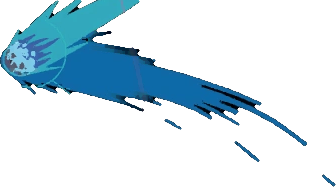
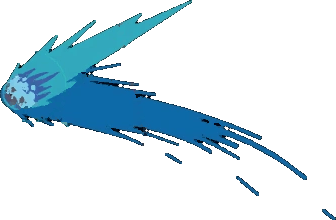
No flicker on zombie/peashooter swaps, spinning planets, upright orbits, clean Interloper, PvZ2 sunflower, spread stickers, dark-only theme

Changed region(s): [[0.0, 0.0, 0.9226, 0.8289], [0.6845, 0.7487, 0.7738, 0.9091], [0.9524, 0.9358, 1.0, 1.0]]

diff --git a/js/decor.js b/js/decor.js
@@ -26,38 +26,39 @@ var Decor = (function () {
 
   /* Astros com lua ou satélite girando em volta.
    *   sat.h = altura do satélite, radius = raio da órbita (px), dur = segundos por volta,
-   *   tilt = inclinação da órbita (graus), flat = achatamento (1 = círculo),
-   *   face = giro da arte para a mesma face ficar sempre virada para o planeta, como no jogo. */
+   *   tilt = inclinação da órbita (graus), flat = achatamento (1 = círculo).
+   * O satélite fica sempre de pé e passa por trás do astro na metade de cima da órbita.
+   * Os astros giram devagar no próprio eixo (CSS: .decor-item--planet > img). */
   var ORBITS = [
-    { el: '.avatar', a: 'ow_timber',  x: 80, y: -6, h: 92, r: 0, m: true,
-      sat: { a: 'ow_attlerock', h: 34, radius: 78,  dur: 14, tilt: -20, flat: 0.62, face: 0 } },
+    { el: '.avatar', a: 'ow_timber',  x: 82, y: -8, h: 92,  r: 0, m: true,
+      sat: { a: 'ow_attlerock', h: 30, radius: 74,  dur: 16, tilt: -12, flat: 0.45 } },
     { s: 'top',  a: 'ow_giants',  x: 56, y: 6,  h: 110, r: 0,
-      sat: { a: 'ow_cannon',    h: 40, radius: 96,  dur: 18, tilt: -16, flat: 0.62, face: 200 } },
+      sat: { a: 'ow_cannon',    h: 34, radius: 94,  dur: 20, tilt: -10, flat: 0.45 } },
     { s: 'tech', a: 'ow_brittle', x: 86, y: 12, h: 120, r: 0,
-      sat: { a: 'ow_lantern',   h: 46, radius: 100, dur: 16, tilt: 18,  flat: 0.64, face: 0 } },
+      sat: { a: 'ow_lantern',   h: 40, radius: 96,  dur: 18, tilt: 10,  flat: 0.45 } },
     { s: 'tech', a: 'ow_sun',     x: 6,  y: 40, h: 150, r: 0,
-      sat: { a: 'ow_station',   h: 30, radius: 122, dur: 24, tilt: 12,  flat: 0.66, face: 180 } }
+      sat: { a: 'ow_station',   h: 28, radius: 118, dur: 26, tilt: 8,   flat: 0.45 } }
   ];
 
   /* Adesivos "segurando" as caixas da página (borda branca de adesivo) */
   var STICKERS = [
-    { el: '.dialog',                              a: 'tr_guide',    x: 96,  y: -48, h: 84,  r: -4 },
-    { el: '.stats',                               a: 'dr_ralsei',   x: 88,  y: -58, h: 110, r: 6 },
+    { el: '.dialog',                              a: 'tr_guide',    x: 94,  y: -50, h: 84,  r: -4 },
+    { el: '.stats',                               a: 'dr_ralsei',   x: 86,  y: -60, h: 110, r: 6 },
     { el: '.hotbar-wrap',                         a: 'tr_slime',    x: 58,  y: 8,   h: 40,  r: 0 },
-    { el: '#projects-list .project:nth-child(1)', a: 'dr_kris',     x: 84,  y: -30, h: 96,  r: 0, m: true },
-    { el: '#projects-list .project:nth-child(2)', a: 'dr_lancer',   x: -10, y: 70,  h: 80,  r: -8 },
-    { el: '#projects-list .project:nth-child(3)', a: 'dr_spamton',  x: 90,  y: 60,  h: 96,  r: 6 },
-    { el: '#projects-list .project:nth-child(4)', a: 'dr_aqua',     x: 86,  y: -34, h: 104, r: 0, m: true },
+    { el: '#projects-list .project:nth-child(1)', a: 'dr_kris',     x: 80,  y: -32, h: 96,  r: 0, m: true },
+    { el: '#projects-list .project:nth-child(2)', a: 'dr_lancer',   x: 50,  y: -28, h: 76,  r: 6 },
+    { el: '#projects-list .project:nth-child(3)', a: 'dr_spamton',  x: -16, y: 52,  h: 90,  r: -6 },
+    { el: '#projects-list .project:nth-child(4)', a: 'dr_aqua',     x: 70,  y: -30, h: 100, r: 0, m: true },
     { el: '.pix',                                 a: 'pvz_wallnut', x: -14, y: 74,  h: 80,  r: -8 },
-    { el: '#contact-links',                       a: 'mc_diamond',  x: 96,  y: -6,  h: 40,  r: -10 },
-    { el: '#contact-links',                       a: 'mc_cake',     x: 92,  y: 92,  h: 50,  r: 6 }
+    { el: '#contact-links',                       a: 'mc_diamond',  x: 96,  y: -10, h: 40,  r: -10 },
+    { el: '.pix',                                 a: 'mc_cake',     x: 84,  y: 92,  h: 50,  r: 6 }
   ];
 
   /* Rostos de mobs do Minecraft espiando atrás das caixas */
   var FACES = [
     { el: '.stats',          a: 'mc_face_creeper',  x: -10, y: 60, h: 46, r: -12 },
     { el: '.pix',            a: 'mc_face_zombie',   x: 94,  y: -8, h: 46, r: 10, m: true },
-    { el: '#projects-list',  a: 'mc_face_skeleton', x: 98,  y: 46, h: 46, r: 10 }
+    { el: '#projects-list',  a: 'mc_face_skeleton', x: 99,  y: 82, h: 46, r: 10 }
   ];
 
   /* Viajantes: atravessam a tela, 2 ou 3 ao mesmo tempo.
@@ -123,8 +124,8 @@ var Decor = (function () {
   }
 
   /* ---------- órbitas ----------
-   * O satélite é movido por código numa elipse inclinada ao redor do centro do astro e girado para a
-   * mesma face ficar sempre voltada para o planeta. Na metade de trás da órbita ele passa atrás do astro. */
+   * O satélite é movido por código numa elipse inclinada ao redor do centro do astro.
+   * Na metade de trás da órbita ele passa atrás do astro. */
   var orbiters = [];
 
   function addOrbits() {
@@ -148,8 +149,7 @@ var Decor = (function () {
     var ex = Math.cos(ang) * o.radius * k, ey = Math.sin(ang) * o.radius * k * o.flat;
     var tilt = o.tilt * Math.PI / 180;
     var x = ex * Math.cos(tilt) - ey * Math.sin(tilt), y = ex * Math.sin(tilt) + ey * Math.cos(tilt);
-    var facing = Math.atan2(y, x) * 180 / Math.PI + o.face;       // a face "o.face" aponta para o planeta
-    b.el.style.transform = 'translate(' + (b.cx + x - b.sw / 2).toFixed(1) + 'px,' + (b.cy + y - b.sh / 2).toFixed(1) + 'px) rotate(' + facing.toFixed(1) + 'deg)';
+    b.el.style.transform = 'translate(' + (b.cx + x - b.sw / 2).toFixed(1) + 'px,' + (b.cy + y - b.sh / 2).toFixed(1) + 'px)';
     b.el.style.zIndex = Math.sin(ang) < 0 ? -1 : 1;                 // atrás do astro na metade de cima
   }
 

diff --git a/js/pvz.js b/js/pvz.js
@@ -73,8 +73,7 @@ var Lawn = (function () {
       shooter.src = DIR + 'pvz2-peashooter-idle.webp';
       shooter.style.width = shooterW + 'px';
       lawn.appendChild(shooter);
-      // pré-carrega a animação de tiro
-      new Image().src = DIR + 'pvz2-peashooter-shoot.webp';
+      preload();
     }
 
     /* Toca a animação de tiro (um <img> novo para ela começar do primeiro quadro) e solta a ervilha na hora do cuspe */
@@ -86,15 +85,33 @@ var Lawn = (function () {
       img.className = 'pvz-shooter'; img.alt = '';
       img.src = DIR + 'pvz2-peashooter-shoot.webp';
       img.style.width = shooterW + 'px';
-      shooter.replaceWith(img); shooter = img;
-      setTimeout(function () { if (running) launchPea(); }, PEA_OUT_MS);
+      var old = shooter; shooter = img;
+      swapWhenReady(old, img, function () {
+        setTimeout(function () { if (running) launchPea(); }, PEA_OUT_MS);
+      });
       setTimeout(function () {
         var idle = document.createElement('img');
         idle.className = 'pvz-shooter'; idle.alt = '';
         idle.src = DIR + 'pvz2-peashooter-idle.webp';
         idle.style.width = shooterW + 'px';
-        shooter.replaceWith(idle); shooter = idle; shooting = false;
+        var cur = shooter; shooter = idle;
+        swapWhenReady(cur, idle, function () { shooting = false; });
       }, SHOOT_MS);
+    }
+
+    /* Troca uma imagem pela outra só depois que a nova já está pronta para desenhar,
+     * para não aparecer um quadro vazio (o "pisca") no meio da troca. */
+    function swapWhenReady(oldImg, newImg, done) {
+      var go = function () { if (oldImg.isConnected) oldImg.replaceWith(newImg); if (done) done(); };
+      if (newImg.decode) newImg.decode().then(go, go); else newImg.onload = go;
+    }
+
+    /* Carrega todas as animações de uma vez no começo, para as trocas serem instantâneas */
+    function preload() {
+      Object.keys(G).forEach(function (n) { new Image().src = DIR + G[n].f; });
+      new Image().src = DIR + HEAD.f;
+      new Image().src = DIR + 'pvz2-peashooter-shoot.webp';
+      new Image().src = DIR + 'pvz2-peashooter-idle.webp';
     }
 
     /* Mostra a animação `name` no zumbi: um <img> novo, para o GIF recomeçar do primeiro quadro */
@@ -106,8 +123,9 @@ var Lawn = (function () {
       // pés no chão e frente do desenho sobre a posição do zumbi
       img.style.marginBottom = '-' + Math.round((a.h - a.box[3]) * s) + 'px';
       img.style.marginLeft = '-' + Math.round(a.box[0] * s) + 'px';
-      z.box.replaceChildren(img);
+      var old = z.img;
       z.img = img; z.anim = name;
+      if (old && old.isConnected) swapWhenReady(old, img); else z.box.replaceChildren(img);
     }
 
     function stageFor(z) {

diff --git a/index.html b/index.html
@@ -1,5 +1,5 @@
 <!DOCTYPE html>
-<html lang="pt-BR">
+<html lang="pt-BR" data-theme="dark">
 <head>
   <meta charset="UTF-8">
   <meta name="viewport" content="width=device-width, initial-scale=1">
@@ -13,17 +13,6 @@
   <link rel="preconnect" href="https://fonts.gstatic.com" crossorigin>
   <link href="https://fonts.googleapis.com/css2?family=Inter:wght@400;500;600&family=Pixelify+Sans:wght@400..700&family=Press+Start+2P&family=VT323&display=swap" rel="stylesheet">
   <link rel="stylesheet" href="css/style.css">
-  <!-- Aplica o tema antes da renderização para evitar "flash" -->
-  <script>
-    (function () {
-      var theme = null;
-      try { theme = localStorage.getItem('theme'); } catch (e) {}
-      if (!theme) {
-        theme = window.matchMedia && window.matchMedia('(prefers-color-scheme: dark)').matches ? 'dark' : 'light';
-      }
-      document.documentElement.setAttribute('data-theme', theme);
-    })();
-  </script>
 </head>
 <body>
   <a class="skip-link" href="#main" data-i18n="ui.skip">Ir para o conteúdo</a>
@@ -47,10 +36,6 @@
           <button type="button" class="lang__btn" data-lang="pt" aria-pressed="true">PT</button>
           <button type="button" class="lang__btn" data-lang="en" aria-pressed="false">EN</button>
         </div>
-        <button type="button" class="icon-btn" id="theme-toggle" data-i18n-attr="aria-label:ui.themeToggle" aria-label="Alternar entre dia e noite">
-          <span class="icon icon--moon" data-sprite="moon" data-scale="2"></span>
-          <span class="icon icon--sun" data-sprite="daysun" data-scale="2"></span>
-        </button>
       </div>
     </div>
   </header>
@@ -83,7 +68,7 @@
           <div class="avatar__frame">
             <img id="avatar-img" width="260" height="260" alt="Foto de Mauricio Aires" data-i18n-attr="alt:hero.photoAlt">
           </div>
-          <span class="deco deco--flower" data-sprite="sunflower" data-scale="0.8"></span>
+          <span class="deco deco--flower" data-sprite="sunflower" data-scale="0.46"></span>
         </div>
       </div>
     </section>

diff --git a/css/style.css b/css/style.css
@@ -26,7 +26,7 @@
 
   --px: 4px;                /* "espessura" do pixel das bordas */
   --header-h: 68px;
-  color-scheme: light;
+  color-scheme: dark;
 }
 
 :root[data-theme="dark"] {
@@ -187,7 +187,7 @@ h1, h2, h3, p, dl, dd { margin: 0; }
 .avatar__frame img { width: 100%; height: 100%; object-fit: cover; }
 .avatar__fallback { display: grid; place-items: center; width: 100%; height: 100%; }
 .deco { position: absolute; z-index: 3; animation: bob 2.4s steps(4) infinite; }
-.deco--flower { bottom: -.8rem; left: 0; animation: none; }
+.deco--flower { bottom: -1.2rem; left: -1.4rem; animation: none; }
 
 /* Céu */
 .sky { position: absolute; inset: 0; z-index: 1; pointer-events: none; }
@@ -334,6 +334,9 @@ h1, h2, h3, p, dl, dd { margin: 0; }
 .decor-item img { display: block; max-width: none; }
 .decor-item--held { z-index: 3; pointer-events: none; }
 .decor-item--planet.decor-item--held { z-index: -1; }
+/* planetas e sol girando devagar no próprio eixo */
+.decor-item--planet > img { animation: tspin 90s linear infinite; }
+.decor-item--planet:nth-of-type(2n) > img { animation-duration: 130s; animation-direction: reverse; }
 .decor-item--sticker img {
   filter: drop-shadow(2px 0 0 #fff) drop-shadow(-2px 0 0 #fff) drop-shadow(0 2px 0 #fff) drop-shadow(0 -2px 0 #fff) drop-shadow(0 5px 5px rgba(0, 0, 0, .4));
 }

diff --git a/js/sprites.js b/js/sprites.js
@@ -195,7 +195,7 @@ const GAME_ART = {
 
   /* Plants vs. Zombies */
   sun:         art("pvz-sun.png", 94, 97),
-  sunflower:   art("pvz-sunflower.webp", 171, 170),
+  sunflower:   art("pvz2-sunflower.webp", 201, 218),
   pvz_wallnut: art("pvz-wall-nut.png", 170, 197),
 
   /* Minecraft: so a frente das cabecas dos mobs e alguns itens */
@@ -217,7 +217,7 @@ const GAME_ART = {
   ow_bramble   : art("ow-dark-bramble.png", 241, 263),
   ow_twins     : art("ow-hourglass-twins.png", 68, 128),
   ow_quantum   : art("ow-quantum-moon.png", 58, 58),
-  ow_interloper: art("map-interloper.png", 336, 187),
+  ow_interloper: art("map-interloper.png", 336, 220),
   ow_stranger:   art("ow-stranger.png", 227, 231),
   ow_sun       : art("map-sun.png", 343, 342),
   ow_station   : art("map-sun-station.png", 90, 63),

diff --git a/js/i18n.js b/js/i18n.js
@@ -51,8 +51,7 @@ const I18N = {
       description: "Desenvolvedor de software, artista pixel art e gamedev. Graduando em Ciência da Computação na UFPA."
     },
     ui: {
-      skip: "Ir para o conteúdo",
-      themeToggle: "Alternar entre dia e noite"
+      skip: "Ir para o conteúdo"
     },
     nav: { about: "Sobre", tech: "Linguagens", projects: "Projetos", contact: "Contato" },
     hero: {
@@ -112,8 +111,7 @@ const I18N = {
       description: "Software developer, pixel artist and game developer. Computer Science student at UFPA."
     },
     ui: {
-      skip: "Skip to content",
-      themeToggle: "Switch between day and night"
+      skip: "Skip to content"
     },
     nav: { about: "About", tech: "Languages", projects: "Projects", contact: "Contact" },
     hero: {

diff --git a/js/main.js b/js/main.js
@@ -83,23 +83,6 @@
     });
   })();
 
-  /* ---------- Tema ---------- */
-  function setTheme(theme) {
-    root.setAttribute('data-theme', theme);
-    store.set('theme', theme);
-  }
-
-  document.getElementById('theme-toggle').addEventListener('click', function () {
-    setTheme(root.getAttribute('data-theme') === 'dark' ? 'light' : 'dark');
-  });
-
-  // Segue o sistema enquanto o usuário não escolheu manualmente
-  if (window.matchMedia) {
-    window.matchMedia('(prefers-color-scheme: dark)').addEventListener('change', function (e) {
-      if (!store.get('theme')) root.setAttribute('data-theme', e.matches ? 'dark' : 'light');
-    });
-  }
-
   /* ---------- Idioma ---------- */
   function detectLang() {
     var saved = store.get('lang');
